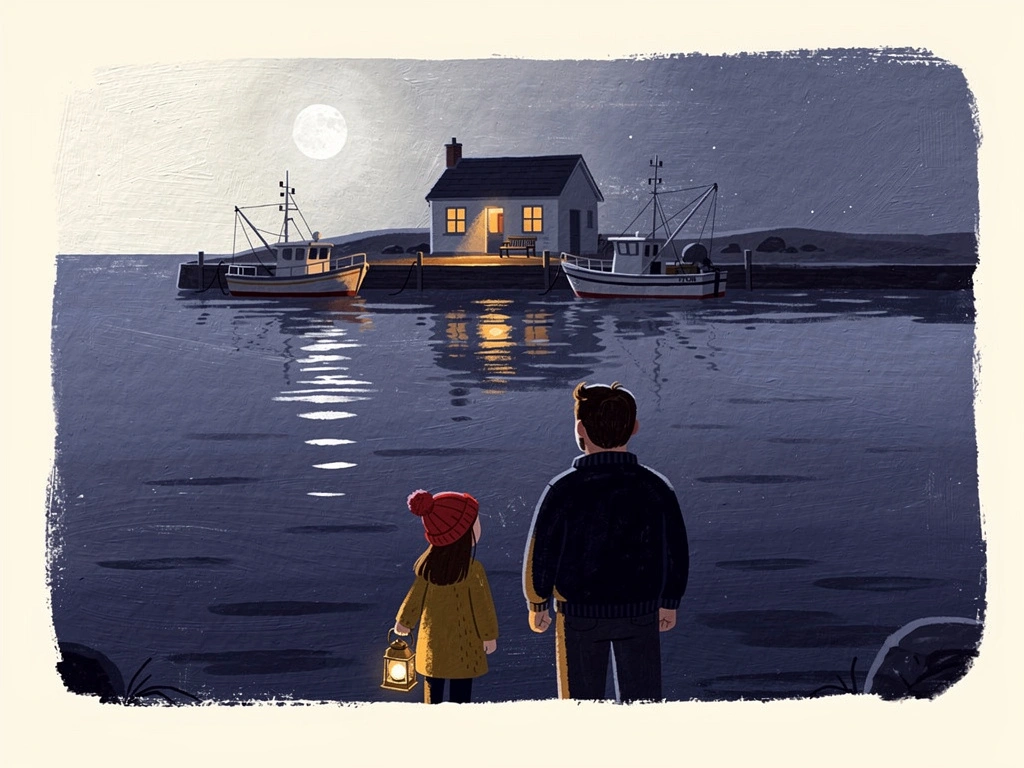
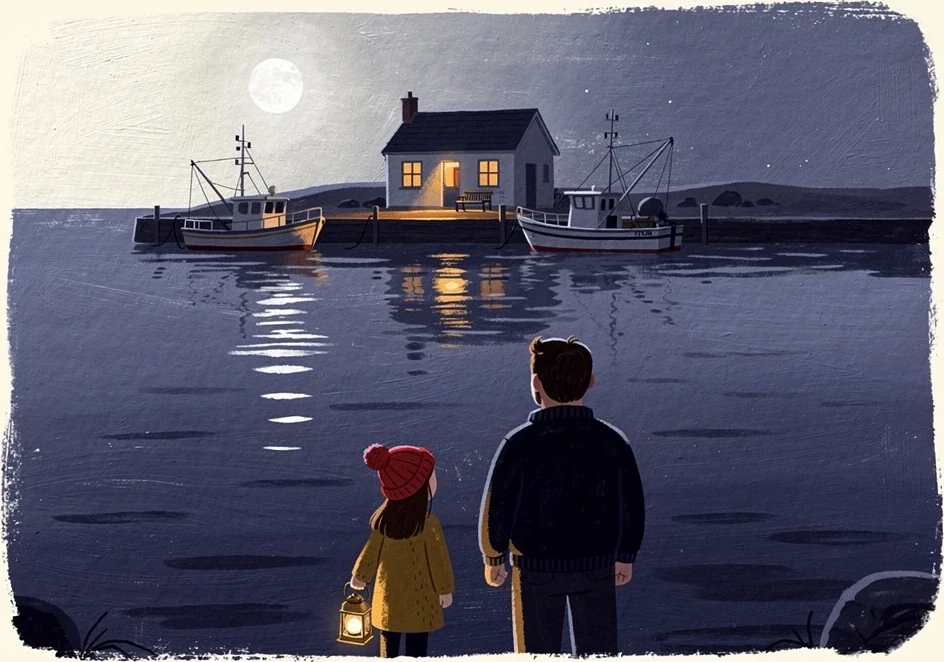
Trim the paper margin Venice paints down the sides of some covers
Some of the new covers came back with a flat cream strip 74px wide down
both sides, which reads as an empty gutter once the cover is laid into a
card. Eight of the forty-two images had a pale edge, so each one is
measured on all four sides and trimmed only where the edge really is flat
paper, leaving the other thirty-four untouched.

The illustration brief now also asks for a full-bleed painting with no
paper margin, frame or side vignette, so new books do not come back with
one.

diff --git a/lib/illustration-style.ts b/lib/illustration-style.ts
@@ -35,7 +35,8 @@ export const KQ_LIGHT =
 export const KQ_QUALITY =
   'Publication quality children\u2019s book art. Clear single focal point, generous calm space, ' +
   'strong silhouette, readable at thumbnail size, gentle depth so the eye can rest. ' +
-  'Cosy and magical rather than busy or spectacular.'
+  'Cosy and magical rather than busy or spectacular. The painting fills the whole canvas edge ' +
+  'to edge: no paper margin, no white border, no frame and no vignette down the sides.'
 
 /** What must never appear. */
 export const KQ_NEGATIVE_EXTRA =
